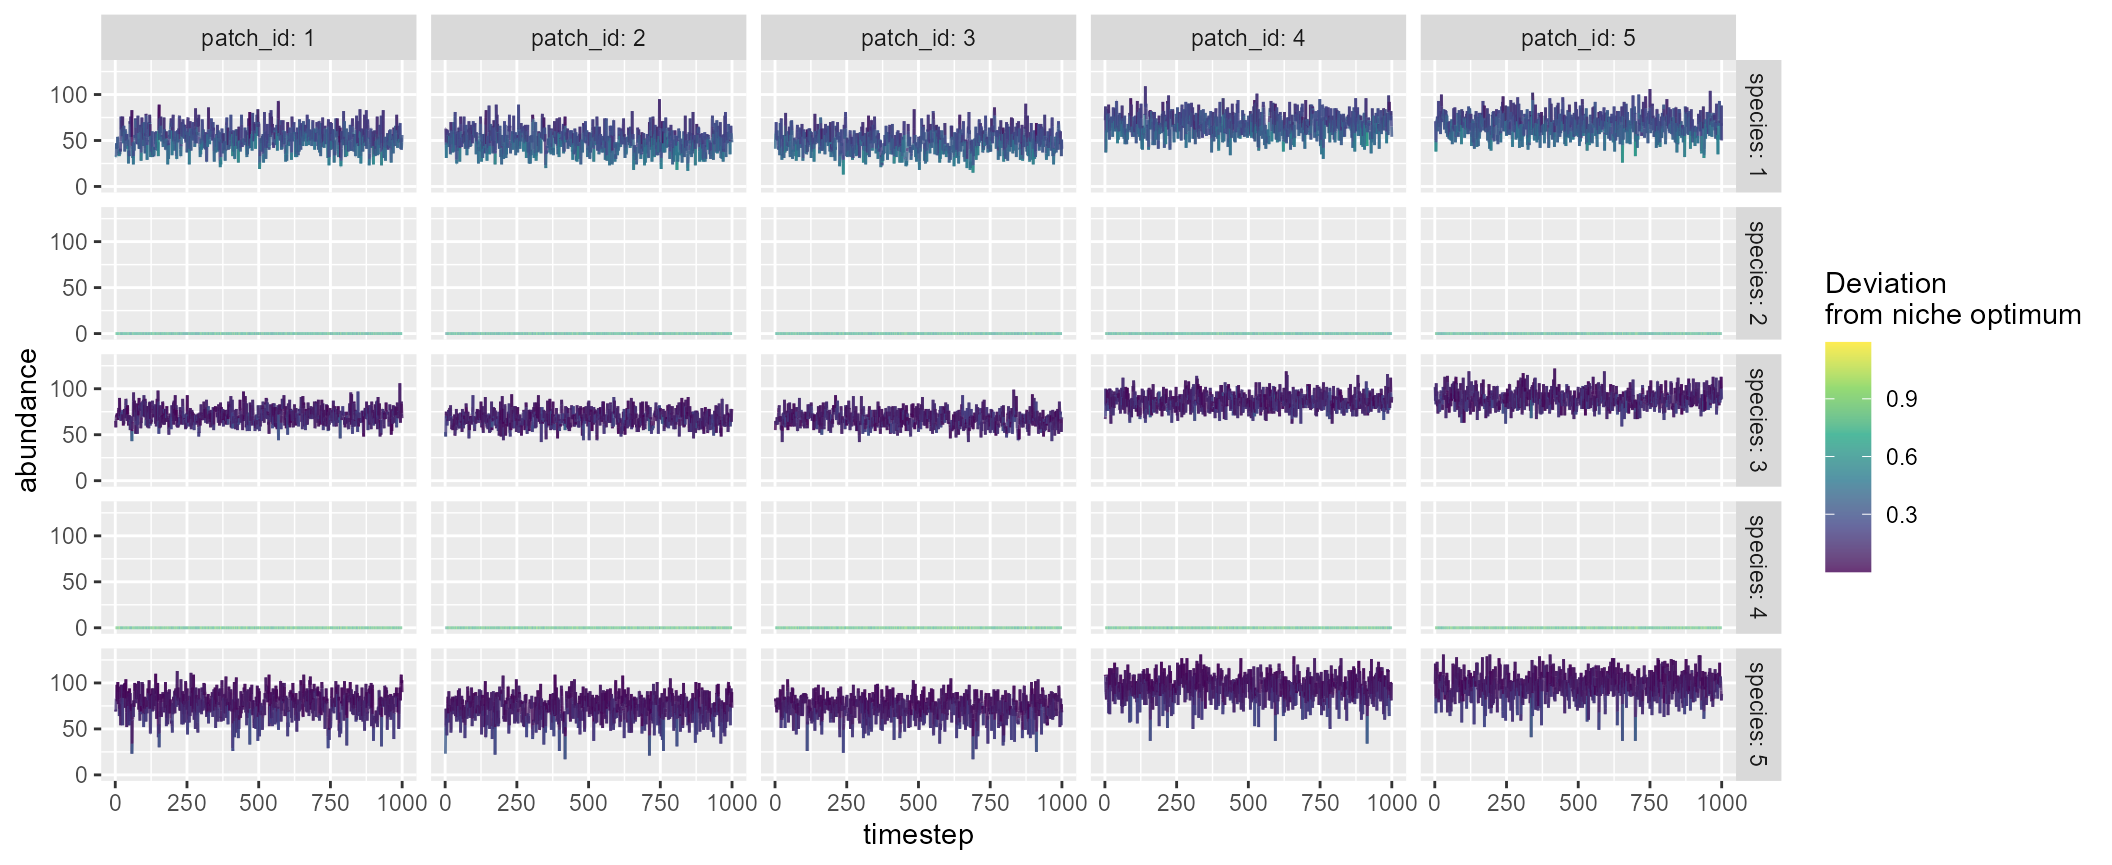
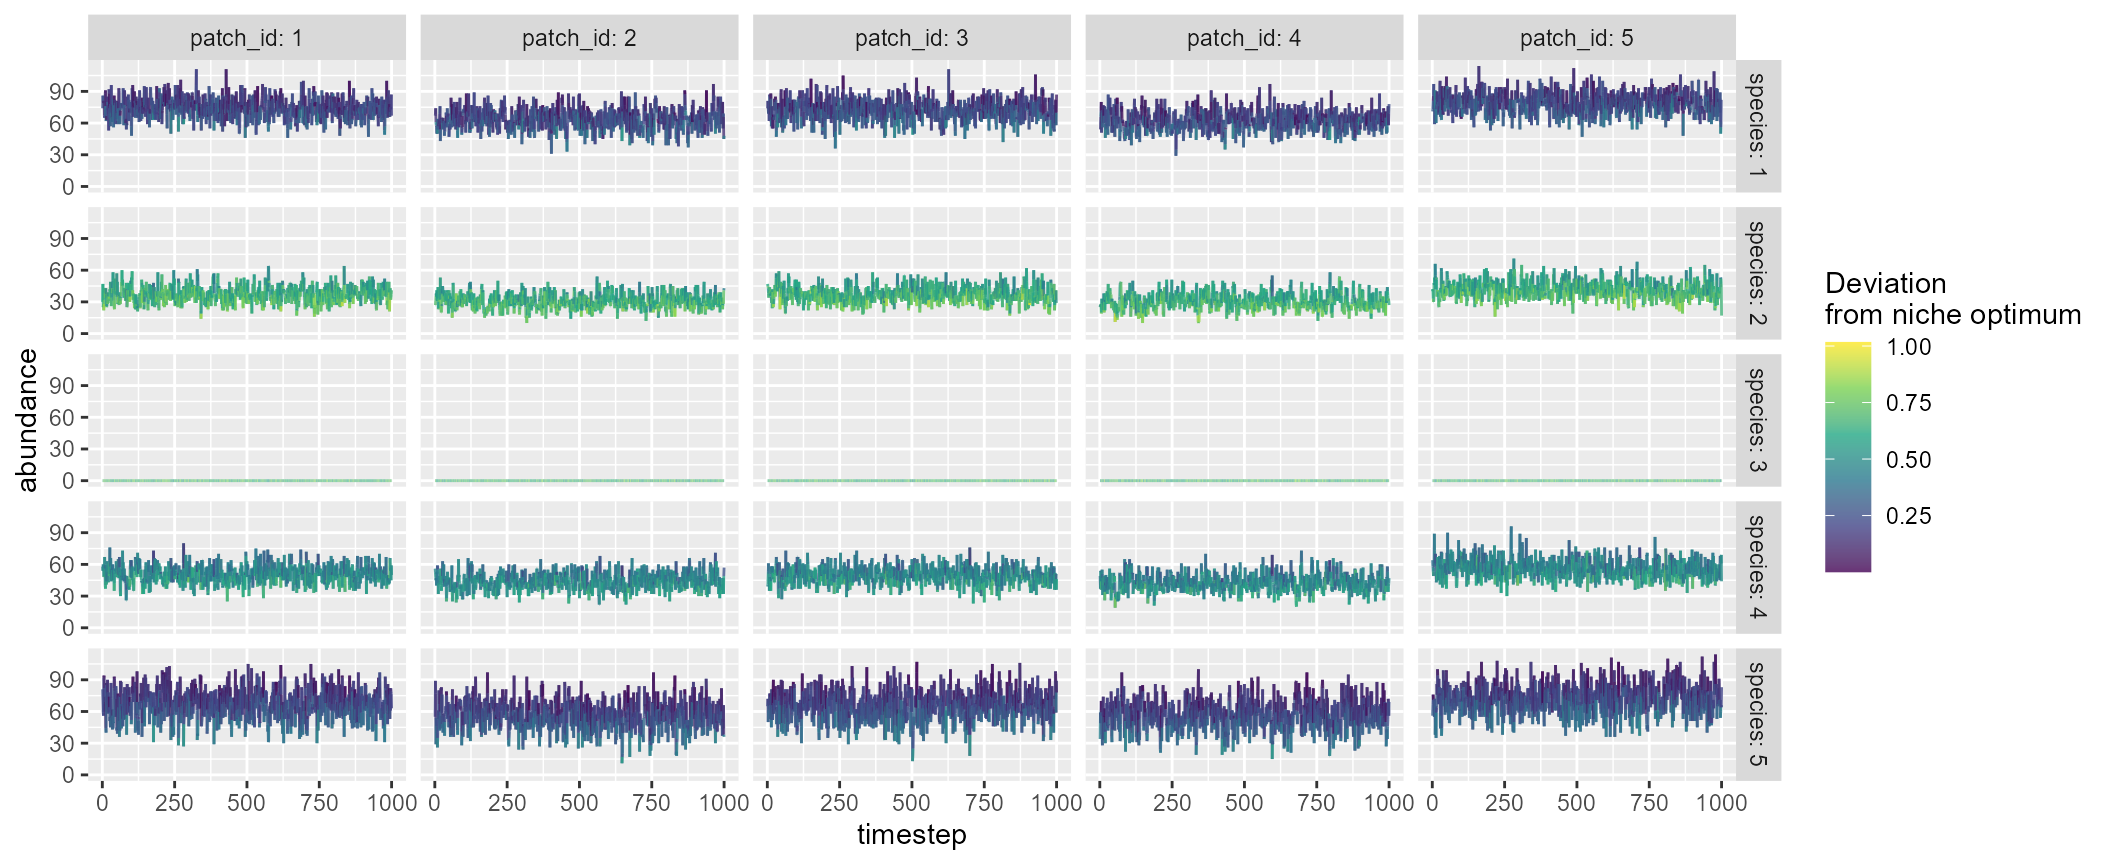
edit: website

diff --git a/docs/articles/mcsim.html b/docs/articles/mcsim.html
@@ -204,18 +204,18 @@ species that are randomly chosen:</p>
 <code class="sourceCode R"><span><span class="va">mc</span></span>
 <span><span class="co">#&gt; $df_dynamics</span></span>
 <span><span class="co">#&gt; <span style="color: #949494;"># A tibble: 25,000 × 9</span></span></span>
-<span><span class="co">#&gt;    timestep patch_id mean_env     env carrying…¹ species niche…²    r_xt abund…³</span></span>
-<span><span class="co">#&gt;       <span style="color: #949494; font-style: italic;">&lt;dbl&gt;</span>    <span style="color: #949494; font-style: italic;">&lt;dbl&gt;</span>    <span style="color: #949494; font-style: italic;">&lt;dbl&gt;</span>   <span style="color: #949494; font-style: italic;">&lt;dbl&gt;</span>      <span style="color: #949494; font-style: italic;">&lt;dbl&gt;</span>   <span style="color: #949494; font-style: italic;">&lt;dbl&gt;</span>   <span style="color: #949494; font-style: italic;">&lt;dbl&gt;</span>   <span style="color: #949494; font-style: italic;">&lt;dbl&gt;</span>   <span style="color: #949494; font-style: italic;">&lt;dbl&gt;</span></span></span>
-<span><span class="co">#&gt; <span style="color: #BCBCBC;"> 1</span>        1        1        0 -<span style="color: #BB0000;">0.068</span><span style="color: #BB0000; text-decoration: underline;">3</span>        100       1  0.303  2.44<span style="color: #949494;">e</span>+0      32</span></span>
-<span><span class="co">#&gt; <span style="color: #BCBCBC;"> 2</span>        1        1        0 -<span style="color: #BB0000;">0.068</span><span style="color: #BB0000; text-decoration: underline;">3</span>        100       2  0.695  9.70<span style="color: #949494;">e</span><span style="color: #BB0000;">-1</span>       0</span></span>
-<span><span class="co">#&gt; <span style="color: #BCBCBC;"> 3</span>        1        1        0 -<span style="color: #BB0000;">0.068</span><span style="color: #BB0000; text-decoration: underline;">3</span>        100       3 -<span style="color: #BB0000;">0.080</span><span style="color: #BB0000; text-decoration: underline;">8</span> 3.39<span style="color: #949494;">e</span>+0      65</span></span>
-<span><span class="co">#&gt; <span style="color: #BCBCBC;"> 4</span>        1        1        0 -<span style="color: #BB0000;">0.068</span><span style="color: #BB0000; text-decoration: underline;">3</span>        100       4  0.783  7.41<span style="color: #949494;">e</span><span style="color: #BB0000;">-9</span>       0</span></span>
-<span><span class="co">#&gt; <span style="color: #BCBCBC;"> 5</span>        1        1        0 -<span style="color: #BB0000;">0.068</span><span style="color: #BB0000; text-decoration: underline;">3</span>        100       5 -<span style="color: #BB0000;">0.013</span><span style="color: #BB0000; text-decoration: underline;">9</span> 3.78<span style="color: #949494;">e</span>+0      71</span></span>
-<span><span class="co">#&gt; <span style="color: #BCBCBC;"> 6</span>        1        2        0  0.326         100       1  0.303  3.67<span style="color: #949494;">e</span>+0      63</span></span>
-<span><span class="co">#&gt; <span style="color: #BCBCBC;"> 7</span>        1        2        0  0.326         100       2  0.695  2.64<span style="color: #949494;">e</span>+0       0</span></span>
-<span><span class="co">#&gt; <span style="color: #BCBCBC;"> 8</span>        1        2        0  0.326         100       3 -<span style="color: #BB0000;">0.080</span><span style="color: #BB0000; text-decoration: underline;">8</span> 2.64<span style="color: #949494;">e</span>+0      53</span></span>
-<span><span class="co">#&gt; <span style="color: #BCBCBC;"> 9</span>        1        2        0  0.326         100       4  0.783  1.21<span style="color: #949494;">e</span><span style="color: #BB0000;">-2</span>       0</span></span>
-<span><span class="co">#&gt; <span style="color: #BCBCBC;">10</span>        1        2        0  0.326         100       5 -<span style="color: #BB0000;">0.013</span><span style="color: #BB0000; text-decoration: underline;">9</span> 1.08<span style="color: #949494;">e</span>+0      23</span></span>
+<span><span class="co">#&gt;    timestep patch_id mean_env      env carrying_…¹ species niche…²  r_xt abund…³</span></span>
+<span><span class="co">#&gt;       <span style="color: #949494; font-style: italic;">&lt;dbl&gt;</span>    <span style="color: #949494; font-style: italic;">&lt;dbl&gt;</span>    <span style="color: #949494; font-style: italic;">&lt;dbl&gt;</span>    <span style="color: #949494; font-style: italic;">&lt;dbl&gt;</span>       <span style="color: #949494; font-style: italic;">&lt;dbl&gt;</span>   <span style="color: #949494; font-style: italic;">&lt;dbl&gt;</span>   <span style="color: #949494; font-style: italic;">&lt;dbl&gt;</span> <span style="color: #949494; font-style: italic;">&lt;dbl&gt;</span>   <span style="color: #949494; font-style: italic;">&lt;dbl&gt;</span></span></span>
+<span><span class="co">#&gt; <span style="color: #BCBCBC;"> 1</span>        1        1        0 -<span style="color: #BB0000;">0.027</span><span style="color: #BB0000; text-decoration: underline;">9</span>          100       1   0.221 3.10       74</span></span>
+<span><span class="co">#&gt; <span style="color: #BCBCBC;"> 2</span>        1        1        0 -<span style="color: #BB0000;">0.027</span><span style="color: #BB0000; text-decoration: underline;">9</span>          100       2  -<span style="color: #BB0000;">0.640</span> 2.17       30</span></span>
+<span><span class="co">#&gt; <span style="color: #BCBCBC;"> 3</span>        1        1        0 -<span style="color: #BB0000;">0.027</span><span style="color: #BB0000; text-decoration: underline;">9</span>          100       3  -<span style="color: #BB0000;">0.674</span> 0.321       0</span></span>
+<span><span class="co">#&gt; <span style="color: #BCBCBC;"> 4</span>        1        1        0 -<span style="color: #BB0000;">0.027</span><span style="color: #BB0000; text-decoration: underline;">9</span>          100       4  -<span style="color: #BB0000;">0.473</span> 2.55       58</span></span>
+<span><span class="co">#&gt; <span style="color: #BCBCBC;"> 5</span>        1        1        0 -<span style="color: #BB0000;">0.027</span><span style="color: #BB0000; text-decoration: underline;">9</span>          100       5   0.223 2.85       81</span></span>
+<span><span class="co">#&gt; <span style="color: #BCBCBC;"> 6</span>        1        2        0  0.008<span style="text-decoration: underline;">32</span>         100       1   0.221 3.18       67</span></span>
+<span><span class="co">#&gt; <span style="color: #BCBCBC;"> 7</span>        1        2        0  0.008<span style="text-decoration: underline;">32</span>         100       2  -<span style="color: #BB0000;">0.640</span> 2.08       27</span></span>
+<span><span class="co">#&gt; <span style="color: #BCBCBC;"> 8</span>        1        2        0  0.008<span style="text-decoration: underline;">32</span>         100       3  -<span style="color: #BB0000;">0.674</span> 0.242       0</span></span>
+<span><span class="co">#&gt; <span style="color: #BCBCBC;"> 9</span>        1        2        0  0.008<span style="text-decoration: underline;">32</span>         100       4  -<span style="color: #BB0000;">0.473</span> 2.47       56</span></span>
+<span><span class="co">#&gt; <span style="color: #BCBCBC;">10</span>        1        2        0  0.008<span style="text-decoration: underline;">32</span>         100       5   0.223 3.07       55</span></span>
 <span><span class="co">#&gt; <span style="color: #949494;"># … with 24,990 more rows, and abbreviated variable names ¹carrying_capacity,</span></span></span>
 <span><span class="co">#&gt; <span style="color: #949494;">#   ²niche_optim, ³abundance</span></span></span>
 <span><span class="co">#&gt; </span></span>
@@ -223,45 +223,45 @@ species that are randomly chosen:</p>
 <span><span class="co">#&gt; <span style="color: #949494;"># A tibble: 5 × 6</span></span></span>
 <span><span class="co">#&gt;   species mean_abundance    r0 niche_optim sd_niche_width p_dispersal</span></span>
 <span><span class="co">#&gt;     <span style="color: #949494; font-style: italic;">&lt;dbl&gt;</span>          <span style="color: #949494; font-style: italic;">&lt;dbl&gt;</span> <span style="color: #949494; font-style: italic;">&lt;dbl&gt;</span>       <span style="color: #949494; font-style: italic;">&lt;dbl&gt;</span>          <span style="color: #949494; font-style: italic;">&lt;dbl&gt;</span>       <span style="color: #949494; font-style: italic;">&lt;dbl&gt;</span></span></span>
-<span><span class="co">#&gt; <span style="color: #BCBCBC;">1</span>       1           57.0     4      0.303           0.411         0.1</span></span>
-<span><span class="co">#&gt; <span style="color: #BCBCBC;">2</span>       2            0       4      0.695           0.472         0.1</span></span>
-<span><span class="co">#&gt; <span style="color: #BCBCBC;">3</span>       3           76.1     4     -<span style="color: #BB0000;">0.080</span><span style="color: #BB0000; text-decoration: underline;">8</span>          0.576         0.1</span></span>
-<span><span class="co">#&gt; <span style="color: #BCBCBC;">4</span>       4            0       4      0.783           0.134         0.1</span></span>
-<span><span class="co">#&gt; <span style="color: #BCBCBC;">5</span>       5           82.9     4     -<span style="color: #BB0000;">0.013</span><span style="color: #BB0000; text-decoration: underline;">9</span>          0.212         0.1</span></span>
+<span><span class="co">#&gt; <span style="color: #BCBCBC;">1</span>       1           70.1     4       0.221          0.558         0.1</span></span>
+<span><span class="co">#&gt; <span style="color: #BCBCBC;">2</span>       2           35.1     4      -<span style="color: #BB0000;">0.640</span>          0.752         0.1</span></span>
+<span><span class="co">#&gt; <span style="color: #BCBCBC;">3</span>       3            0       4      -<span style="color: #BB0000;">0.674</span>          0.290         0.1</span></span>
+<span><span class="co">#&gt; <span style="color: #BCBCBC;">4</span>       4           48.4     4      -<span style="color: #BB0000;">0.473</span>          0.719         0.1</span></span>
+<span><span class="co">#&gt; <span style="color: #BCBCBC;">5</span>       5           63.3     4       0.223          0.333         0.1</span></span>
 <span><span class="co">#&gt; </span></span>
 <span><span class="co">#&gt; $df_patch</span></span>
 <span><span class="co">#&gt; <span style="color: #949494;"># A tibble: 5 × 5</span></span></span>
 <span><span class="co">#&gt;   patch_id alpha_div mean_env carrying_capacity disturbance</span></span>
 <span><span class="co">#&gt;      <span style="color: #949494; font-style: italic;">&lt;dbl&gt;</span>     <span style="color: #949494; font-style: italic;">&lt;dbl&gt;</span>    <span style="color: #949494; font-style: italic;">&lt;dbl&gt;</span>             <span style="color: #949494; font-style: italic;">&lt;dbl&gt;</span>       <span style="color: #949494; font-style: italic;">&lt;dbl&gt;</span></span></span>
-<span><span class="co">#&gt; <span style="color: #BCBCBC;">1</span>        1         3        0               100           0</span></span>
-<span><span class="co">#&gt; <span style="color: #BCBCBC;">2</span>        2         3        0               100           0</span></span>
-<span><span class="co">#&gt; <span style="color: #BCBCBC;">3</span>        3         3        0               100           0</span></span>
-<span><span class="co">#&gt; <span style="color: #BCBCBC;">4</span>        4         3        0               100           0</span></span>
-<span><span class="co">#&gt; <span style="color: #BCBCBC;">5</span>        5         3        0               100           0</span></span>
+<span><span class="co">#&gt; <span style="color: #BCBCBC;">1</span>        1         4        0               100           0</span></span>
+<span><span class="co">#&gt; <span style="color: #BCBCBC;">2</span>        2         4        0               100           0</span></span>
+<span><span class="co">#&gt; <span style="color: #BCBCBC;">3</span>        3         4        0               100           0</span></span>
+<span><span class="co">#&gt; <span style="color: #BCBCBC;">4</span>        4         4        0               100           0</span></span>
+<span><span class="co">#&gt; <span style="color: #BCBCBC;">5</span>        5         4        0               100           0</span></span>
 <span><span class="co">#&gt; </span></span>
 <span><span class="co">#&gt; $df_diversity</span></span>
 <span><span class="co">#&gt; <span style="color: #949494;"># A tibble: 1 × 3</span></span></span>
 <span><span class="co">#&gt;   alpha_div beta_div gamma_div</span></span>
 <span><span class="co">#&gt;       <span style="color: #949494; font-style: italic;">&lt;dbl&gt;</span>    <span style="color: #949494; font-style: italic;">&lt;dbl&gt;</span>     <span style="color: #949494; font-style: italic;">&lt;dbl&gt;</span></span></span>
-<span><span class="co">#&gt; <span style="color: #BCBCBC;">1</span>         3        1         3</span></span>
+<span><span class="co">#&gt; <span style="color: #BCBCBC;">1</span>         4        1         4</span></span>
 <span><span class="co">#&gt; </span></span>
 <span><span class="co">#&gt; $df_xy_coord</span></span>
 <span><span class="co">#&gt; <span style="color: #949494;"># A tibble: 5 × 2</span></span></span>
 <span><span class="co">#&gt;   x_coord y_coord</span></span>
 <span><span class="co">#&gt;     <span style="color: #949494; font-style: italic;">&lt;dbl&gt;</span>   <span style="color: #949494; font-style: italic;">&lt;dbl&gt;</span></span></span>
-<span><span class="co">#&gt; <span style="color: #BCBCBC;">1</span>   6.05     2.03</span></span>
-<span><span class="co">#&gt; <span style="color: #BCBCBC;">2</span>   0.848    4.89</span></span>
-<span><span class="co">#&gt; <span style="color: #BCBCBC;">3</span>   5.42     6.34</span></span>
-<span><span class="co">#&gt; <span style="color: #BCBCBC;">4</span>   2.85     1.42</span></span>
-<span><span class="co">#&gt; <span style="color: #BCBCBC;">5</span>   3.31     2.08</span></span>
+<span><span class="co">#&gt; <span style="color: #BCBCBC;">1</span>    6.10    3.72</span></span>
+<span><span class="co">#&gt; <span style="color: #BCBCBC;">2</span>    2.27    1.61</span></span>
+<span><span class="co">#&gt; <span style="color: #BCBCBC;">3</span>    5.20    8.49</span></span>
+<span><span class="co">#&gt; <span style="color: #BCBCBC;">4</span>    9.61    1.24</span></span>
+<span><span class="co">#&gt; <span style="color: #BCBCBC;">5</span>    4.26    5.99</span></span>
 <span><span class="co">#&gt; </span></span>
 <span><span class="co">#&gt; $distance_matrix</span></span>
-<span><span class="co">#&gt;          1        2        3         4         5</span></span>
-<span><span class="co">#&gt; 1 0.000000 5.939906 4.356634 3.2621486 2.7476368</span></span>
-<span><span class="co">#&gt; 2 5.939906 0.000000 4.797324 4.0141827 3.7383899</span></span>
-<span><span class="co">#&gt; 3 4.356634 4.797324 0.000000 5.5586950 4.7614631</span></span>
-<span><span class="co">#&gt; 4 3.262149 4.014183 5.558695 0.0000000 0.8041925</span></span>
-<span><span class="co">#&gt; 5 2.747637 3.738390 4.761463 0.8041925 0.0000000</span></span>
+<span><span class="co">#&gt;          1        2        3        4        5</span></span>
+<span><span class="co">#&gt; 1 0.000000 4.367844 4.850955 4.294445 2.925376</span></span>
+<span><span class="co">#&gt; 2 4.367844 0.000000 7.467539 7.343043 4.809798</span></span>
+<span><span class="co">#&gt; 3 4.850955 7.467539 0.000000 8.481821 2.661534</span></span>
+<span><span class="co">#&gt; 4 4.294445 7.343043 8.481821 0.000000 7.153970</span></span>
+<span><span class="co">#&gt; 5 2.925376 4.809798 2.661534 7.153970 0.000000</span></span>
 <span><span class="co">#&gt; </span></span>
 <span><span class="co">#&gt; $interaction_matrix</span></span>
 <span><span class="co">#&gt;      [,1] [,2] [,3] [,4] [,5]</span></span>

diff --git a/docs/authors.html b/docs/authors.html
@@ -77,14 +77,14 @@
     </div>
 
 
-    <p>Terui A (2022).
+    <p>Terui A, Pomeranz JF (2023).
 <em>mcbrnet: Metacommunity simulation in branching networks</em>.
 R package version 1.3.0, <a href="https://github.com/aterui/mcbrnet" class="external-link">https://github.com/aterui/mcbrnet</a>. 
 </p>
     <pre>@Manual{,
   title = {mcbrnet: Metacommunity simulation in branching networks},
-  author = {Akira Terui},
-  year = {2022},
+  author = {Akira Terui and Justin F. Pomeranz},
+  year = {2023},
   note = {R package version 1.3.0},
   url = {https://github.com/aterui/mcbrnet},
 }</pre>
